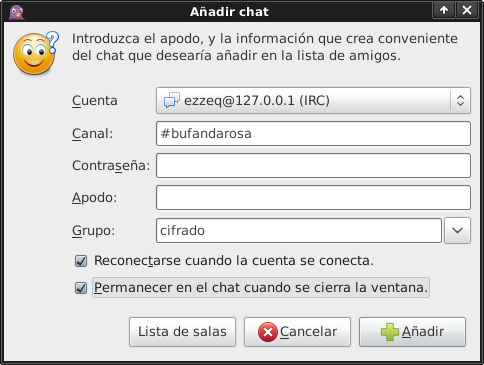
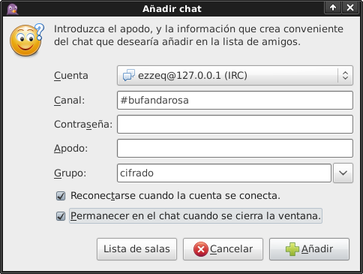
imagens mas chicas

diff --git a/README.md b/README.md
@@ -23,7 +23,7 @@ Por ejemplo podemos utilizar `irc.freenode.net` y la clave `1234`.
 ![captura del programa](img/irc.png)
 > Captura de la configuración del IRC en pidgin
 
-Luego de levantar el proxy podemos debemos correr un cliente y conectarnos al canal `#bufandarosa` (por ejemplo).
+Luego de levantar el proxy debemos correr un cliente y conectarnos al canal `#bufandarosa` (por ejemplo).
 
 ![captura del programa](img/canal.png)
 > Captura de la configuración del canal en pidgin
